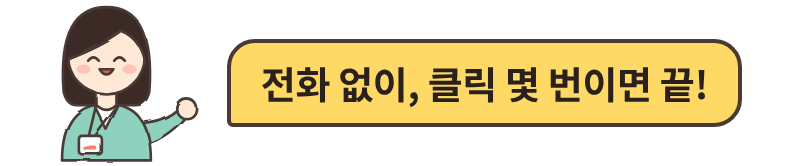
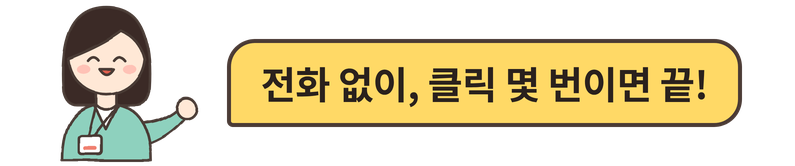
수강매뉴얼 장면 그림: 3배로 그린 뒤 줄여 캐릭터 외곽선 깨짐 수정
Claude-Session: https://claude.ai/code/session_01HUwuhegechg9FurtJDVvTM

diff --git a/tools/characters/scene.py b/tools/characters/scene.py
@@ -22,11 +22,14 @@ def col(*items,gap=18,style=''):
     return f'<div style="display:flex;flex-direction:column;align-items:center;gap:{gap}px;{style}">{"".join(items)}</div>'
 def panel(inner,bg='#FFFFFF'):
     return f'<div style="position:absolute;inset:4px;box-sizing:border-box;background:{bg};border:4px solid {INK};border-radius:44px;overflow:hidden;display:flex;align-items:center;justify-content:center">{inner}</div>'
-def render(jobs):
+def render(jobs,scale=3):
+    """scale배로 그린 뒤 원래 크기로 줄인다 — 작은 캐릭터의 선이 깨지지 않게."""
+    from PIL import Image
     with sync_playwright() as pw:
         b=pw.chromium.launch(executable_path='/usr/bin/google-chrome')
         for path,(w,h,html) in jobs.items():
-            pg=b.new_page(viewport={'width':w,'height':h})
+            pg=b.new_page(viewport={'width':w,'height':h},device_scale_factor=scale)
             pg.set_content(f'<body style="margin:0;width:{w}px;height:{h}px;position:relative;overflow:hidden;background:transparent;display:flex;align-items:center;justify-content:center">{html}</body>')
             pg.screenshot(path=path,omit_background=True); pg.close()
+            if scale!=1: Image.open(path).resize((w,h),Image.LANCZOS).save(path)
         b.close()

diff --git a/tools/characters/manual_manager_scenes.py b/tools/characters/manual_manager_scenes.py
@@ -167,4 +167,6 @@ os.makedirs('/home/claude/out/mgr',exist_ok=True)
 jobs={}
 for k,(w,h,html) in J.items():
     jobs[f'/home/claude/out/mgr/{k}']=(w,h,f'<div style="position:absolute;inset:0;display:flex;align-items:center;justify-content:center">{html}</div>')
-render(jobs,1)
+render(jobs,3)
+from PIL import Image
+for p,(w,h,_) in jobs.items(): Image.open(p).resize((w,h),Image.LANCZOS).save(p)
